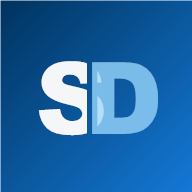
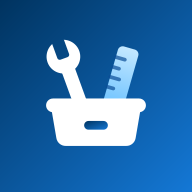
feat(브랜드): 스마트덱 → SMART TOOL BOX(스마트 툴박스) 개명 + 공구함 로고
- 심볼: SD 겹침 글자 → 열린 공구함 위로 렌치(흰색)·자(하늘색)가 솟는 그림 (ToolboxMark)
- 워드마크: SMART(Archivo Light) + TOOL BOX(Archivo Black) + 파란 점, 캡션 Smart Site Tools
- 홈 배너 제목: 건설계획 자동화 TOOL → SMART TOOL BOX
- 파비콘·앱 아이콘·마스커블·apple-touch PNG 재생성, 탭 제목·manifest·로그인 하단 문구 갱신
- 스마트폼 헤더는 prefix="Smart" 로 기존 Smart FORMS 표기 유지
- TC 대여 저장 파일 format(smartdeck.tc-rental-plan)은 기존 파일 호환을 위해 유지

Changed region(s): [[0.1875, 0.1875, 0.8438, 0.7812], [0.0, 0.0, 1.0, 1.0]]

diff --git a/apps/web/src/components/brand/BrandWordmark.tsx b/apps/web/src/components/brand/BrandWordmark.tsx
@@ -1,20 +1,20 @@
 /**
- * 스마트 시리즈 브랜드 로고 — 두 글자 심볼 + 워드마크(`Smart DECK.`) + 캡션.
+ * 브랜드 로고 — 심볼 + 워드마크(`SMART TOOL BOX.`) + 캡션.
  *
  * 표기 규칙
- *  - 정식 표기는 `SmartDeck` / `스마트덱`. **전체 대문자 굵게(SMARTDECK)는 쓰지 않는다.**
- *    `Smart` 는 얇은 회색으로 눌러 두고 `DECK` 만 본체로 세운다.
- *  - 심볼은 겹침형(첫 글자 위에 둘째 글자를 하늘색으로) — 파비콘(16px)만 솔리드형을 따로 쓴다.
- *    (`public/icon.svg` = 겹침 / `public/favicon.svg` = 솔리드)
- *  - 본사 Smart Works 와의 구분: 본사는 두 단어(Smart Works), 이 도구는 한 단어(SmartDeck) + 캡션.
- *  - 같은 틀로 다른 도구(Smart FORMS · SF)도 만든다 — 글자·이름·캡션만 바꾼다.
+ *  - 정식 표기는 `SMART TOOL BOX` / `스마트 툴박스` (2026-10 스마트덱에서 개명). **세 단어 모두 굵게는 쓰지 않는다.**
+ *    앞 단어(`SMART`)는 얇은 회색으로 눌러 두고 `TOOL BOX` 만 본체로 세운다.
+ *  - 심볼은 열린 공구함 — 흰 상자 위로 렌치(흰색)·자(하늘색)가 솟아 가방이 아니라 '공구'로 읽힌다.
+ *    파비콘(16px)만 밝은 타일·자 눈금 생략형을 따로 쓴다. (`public/icon.svg` / `public/favicon.svg`)
+ *  - 캡션은 `Smart Site Tools`, 홈 배너 제목은 `SMART TOOL BOX`.
+ *  - 같은 틀로 안의 도구(Smart FORMS · SF)도 만든다 — 앞 단어·이름·글자·캡션만 바꾼다.
  */
 import { useId } from "react";
 
 /** 두 글자 심볼 — 둥근 타일 위에 두 글자를 겹쳐 깊이를 만든다 */
 export function BrandMark({
   letters = "SD",
-  label = "SmartDeck",
+  label = "SMART TOOL BOX",
   className = "h-9 w-9",
 }: {
   letters?: string;
@@ -69,9 +69,50 @@ export function BrandMark({
   );
 }
 
-/** SD 심볼 — SmartDeck 전용 */
-export function SdMark({ className = "h-9 w-9" }: { className?: string }) {
-  return <BrandMark letters="SD" label="SmartDeck" className={className} />;
+/** 공구함 심볼 — SMART TOOL BOX 전용. `public/icon.svg` 와 같은 도형이다(한쪽을 고치면 같이 고친다) */
+export function ToolboxMark({ className = "h-9 w-9" }: { className?: string }) {
+  // 한 화면에 심볼이 둘 이상 있어도 그라디언트·마스크 id 가 겹치지 않게 한다.
+  const id = `toolbox-mark-${useId().replace(/[^a-zA-Z0-9]/g, "")}`;
+  return (
+    <svg viewBox="0 0 48 48" className={className} role="img" aria-label="SMART TOOL BOX">
+      <defs>
+        <linearGradient id={`${id}-tile`} x1="0" y1="0" x2="1" y2="1">
+          <stop offset="0" stopColor="#00335f" />
+          <stop offset="1" stopColor="#1478d6" />
+        </linearGradient>
+        <linearGradient id={`${id}-sky`} x1="0" y1="0" x2="0" y2="1">
+          <stop offset="0" stopColor="#c4e8ff" />
+          <stop offset="1" stopColor="#6cc2ff" />
+        </linearGradient>
+        {/* 렌치 머리의 벌어진 입 — 렌치를 기울이기 전 좌표로 판다 */}
+        <mask id={`${id}-jaw`} maskUnits="userSpaceOnUse" x="0" y="0" width="48" height="48">
+          <rect x="0" y="0" width="48" height="48" fill="#ffffff" transform="rotate(20 18 22)" />
+          <rect x="16" y="2" width="4" height="7.6" rx="0.8" fill="#000000" />
+        </mask>
+      </defs>
+      <rect width="48" height="48" rx="12" fill={`url(#${id}-tile)`} />
+      {/* 자 — 공구함 오른쪽 뒤에서 비스듬히 솟는다(하늘색) */}
+      <g transform="rotate(16 31 20)">
+        <rect x="27.6" y="6.5" width="6.8" height="20" rx="1.6" fill={`url(#${id}-sky)`} />
+        <path
+          d="M27.6 10.5h3M27.6 13.8h2M27.6 17.1h3M27.6 20.4h2"
+          stroke="#0b4d97"
+          strokeOpacity="0.7"
+          strokeWidth="1.2"
+          strokeLinecap="round"
+        />
+      </g>
+      {/* 렌치 — 왼쪽 뒤에서 반대로 기운다(흰색) */}
+      <g transform="rotate(-20 18 22)" mask={`url(#${id}-jaw)`}>
+        <rect x="15.8" y="10" width="4.4" height="17" rx="2.2" fill="#ffffff" />
+        <circle cx="18" cy="9" r="5.4" fill="#ffffff" />
+      </g>
+      {/* 공구함 — 테두리 띠 + 아래로 좁아지는 몸통, 가운데 잠금 홈 */}
+      <path d="M9.6 26h28.8l-1.7 9.9a3 3 0 0 1-3 2.5H14.3a3 3 0 0 1-3-2.5z" fill="#ffffff" />
+      <rect x="8" y="23.2" width="32" height="4.4" rx="2.2" fill="#ffffff" />
+      <rect x="20.2" y="30.4" width="7.6" height="2.8" rx="1.4" fill={`url(#${id}-tile)`} />
+    </svg>
+  );
 }
 
 interface BrandWordmarkProps {
@@ -79,11 +120,13 @@ interface BrandWordmarkProps {
   showMark?: boolean;
   /** 캡션 노출 여부 — 좁은 헤더에서는 끈다 */
   showCaption?: boolean;
-  /** 심볼 두 글자 (기본 SD) */
+  /** 심볼 두 글자 — 주면 글자 심볼, 비우면 공구함 심볼 */
   letters?: string;
-  /** `Smart` 뒤에 붙는 본체 이름 (기본 DECK) */
+  /** 얇게 눌러 두는 앞 단어 (기본 SMART) */
+  prefix?: string;
+  /** 앞 단어 뒤에 세우는 본체 이름 (기본 TOOL BOX) */
   name?: string;
-  /** 아래 작은 캡션 (기본 Construction Planning) */
+  /** 아래 작은 캡션 (기본 Smart Site Tools) */
   caption?: string;
   className?: string;
 }
@@ -91,24 +134,37 @@ interface BrandWordmarkProps {
 export default function BrandWordmark({
   showMark = true,
   showCaption = true,
-  letters = "SD",
-  name = "DECK",
-  caption = "Construction Planning",
+  letters,
+  prefix = "SMART",
+  name = "TOOL BOX",
+  caption = "Smart Site Tools",
   className,
 }: BrandWordmarkProps) {
+  const markClass = "h-9 w-9 shrink-0 drop-shadow-[0_3px_8px_rgba(0,71,145,0.35)]";
   return (
     <div className={"flex items-center gap-2.5" + (className ? ` ${className}` : "")}>
-      {showMark && (
-        <BrandMark
-          letters={letters}
-          label={`Smart ${name}`}
-          className="h-9 w-9 shrink-0 drop-shadow-[0_3px_8px_rgba(0,71,145,0.35)]"
-        />
-      )}
+      {showMark &&
+        (letters ? (
+          <BrandMark letters={letters} label={`${prefix} ${name}`} className={markClass} />
+        ) : (
+          <ToolboxMark className={markClass} />
+        ))}
       <div className="flex flex-col leading-none">
-        {/* 한 줄 표기 — Smart 는 얇게 눌러 두고 본체 이름만 세운다 */}
+        {/*
+          한 줄 표기 — 앞 단어는 얇게 눌러 두고 본체 이름만 세운다.
+          대문자 앞 단어(SMART)는 본체와 같은 Archivo 가족의 Light 로 맞추고 사이를 조금 더 띄운다.
+        */}
         <span className="flex items-baseline gap-[3px]">
-          <span className="text-[19px] font-medium tracking-[-0.02em] text-slate-400">Smart</span>
+          {prefix === prefix.toUpperCase() ? (
+            <span
+              className="mr-[4px] text-[21px] font-light tracking-[0.02em] text-slate-500"
+              style={{ fontFamily: "'Archivo', 'SUIT Variable', sans-serif" }}
+            >
+              {prefix}
+            </span>
+          ) : (
+            <span className="text-[19px] font-medium tracking-[-0.02em] text-slate-400">{prefix}</span>
+          )}
           <span
             className="text-[22px] tracking-[-0.045em] text-slate-900"
             style={{ fontFamily: "'Archivo Black', 'SUIT Variable', sans-serif" }}

diff --git a/apps/web/src/features/home/HomePage.tsx b/apps/web/src/features/home/HomePage.tsx
@@ -76,7 +76,7 @@ const toolToCard = (tool: ToolDef): HomeCard => ({
   available: tool.status === "available",
   thumbnail: tool.thumbnail,
   logo: tool.logo,
-  meta: "우미 · 스마트덱",
+  meta: "우미 · 스마트 툴박스",
   href: tool.status === "available" ? tool.path : undefined,
 });
 
@@ -104,7 +104,7 @@ export default function HomePage() {
         icon: LayoutGrid,
         available: true,
         thumbnail: app.thumbnail_url,
-        meta: [app.author_name, app.team].filter(Boolean).join(" · ") || "우미 · 스마트덱",
+        meta: [app.author_name, app.team].filter(Boolean).join(" · ") || "우미 · 스마트 툴박스",
         // 설치형도 카드는 상세로 보낸다(설명·화면을 보고 받도록).
         href: `/market/${app.id}`,
         section: toSection(app.section),
@@ -285,7 +285,7 @@ export default function HomePage() {
             <div className="flex flex-wrap items-center gap-2">
               <span className="h-[2px] w-5 rounded-full bg-[#5cc8ff]" />
               <span className="text-[10px] font-bold uppercase tracking-[0.28em] text-[#a9d8ff]">
-                SmartDeck · Tool Directory
+                Woomi · Tool Directory
               </span>
               {/* 요약 칩 — 배너에서 규모를 바로 보여준다 */}
               <span className="ml-1 inline-flex items-center gap-1 rounded-full bg-white/12 px-2.5 py-0.5 text-[11px] font-semibold text-white/90 ring-1 ring-white/25 backdrop-blur">
@@ -300,7 +300,7 @@ export default function HomePage() {
               className="mt-1.5 text-[30px] leading-[1.12] text-white drop-shadow-[0_3px_14px_rgba(0,20,45,0.45)]"
               style={{ fontFamily: "'Black Han Sans', 'SUIT Variable', sans-serif" }}
             >
-              건설계획 자동화 TOOL
+              SMART TOOL BOX
             </h1>
             <p className="mt-1.5 max-w-xl text-[13px] leading-snug text-white/75">
               현장에서 바로 쓰는 시공 자동화 앱·도구를 한곳에서 찾고, 직접 만든 도구를 공유해 보세요.

diff --git a/apps/web/index.html b/apps/web/index.html
@@ -13,7 +13,7 @@
     <meta name="apple-mobile-web-app-capable" content="yes" />
     <meta name="apple-mobile-web-app-status-bar-style" content="black-translucent" />
     <link rel="apple-touch-icon" href="/icon-192.png" />
-    <title>스마트덱 (SmartDeck) · 건설계획 자동화</title>
+    <title>스마트 툴박스 (SMART TOOL BOX)</title>
 
     <!-- 앱 전체 기본 글꼴: SUIT (Smart Works 와 동일, Pretendard 는 폴백) -->
     <link rel="preconnect" href="https://cdn.jsdelivr.net" crossorigin />
@@ -30,7 +30,7 @@
     <link rel="preconnect" href="https://fonts.gstatic.com" crossorigin />
     <link
       rel="stylesheet"
-      href="https://fonts.googleapis.com/css2?family=Black+Han+Sans&family=Archivo+Black&family=JetBrains+Mono:wght@400;500;700&display=swap"
+      href="https://fonts.googleapis.com/css2?family=Black+Han+Sans&family=Archivo:wght@300&family=Archivo+Black&family=JetBrains+Mono:wght@400;500;700&display=swap"
     />
   </head>
   <body>

diff --git a/apps/web/src/features/elevation/components/CadRibbon.tsx b/apps/web/src/features/elevation/components/CadRibbon.tsx
@@ -46,7 +46,7 @@ import {
   ZoomOut,
 } from "lucide-react";
 import { cn } from "@/lib/utils";
-import { SdMark } from "@/components/brand/BrandWordmark";
+import { ToolboxMark } from "@/components/brand/BrandWordmark";
 
 type IconType = ComponentType<{ className?: string }>;
 
@@ -337,7 +337,7 @@ export default function CadRibbon(p: CadRibbonProps) {
           borderBottom: "1px solid rgba(255,255,255,.08)",
         }}
       >
-        <SdMark className="h-7 w-7 shrink-0" />
+        <ToolboxMark className="h-7 w-7 shrink-0" />
         {/* 우미 로고 — 원본이 회색+네이비 2색이라 다크 바에서 묻힌다.
             brightness(0) invert(1) 로 흰색 실루엣으로 반전해 얹는다. */}
         <img

diff --git a/apps/web/src/features/forms/qmpCycle.ts b/apps/web/src/features/forms/qmpCycle.ts
@@ -112,7 +112,7 @@ export function alertDaysOf(code: string, settings?: QmpSiteSettings): number {
 
 /**
  * 이 현장에서 미리 알고 있는 외부 작성 주소(서식 번호 → 주소) — 설정에 없을 때 쓴다.
- * 부산장안(B1): 사용자가 알려 준 스마트우미 공정 화면. 주소의 cd7603f0… 는 스마트덱 현장 번호다.
+ * 부산장안(B1): 사용자가 알려 준 스마트우미 공정 화면. 주소의 cd7603f0… 는 스마트 툴박스(구 스마트덱) 현장 번호다.
  */
 const BUSAN_PROCESS =
   "https://sw.smartwoomi.com/process/frame/auto_cd7603f0-ed9e-4b12-a150-90813ce35d9d_%EA%B3%A8%EC%A1%B0_1774230094168";

diff --git a/apps/web/src/features/tcRental/TcRentalPage.tsx b/apps/web/src/features/tcRental/TcRentalPage.tsx
@@ -886,7 +886,7 @@ export default function TcRentalPage() {
           </HeaderButton>
           {/*
             DB(REV 저장)가 정식 보관 경로다. 이 버튼은 파일로 빼두는 백업·공유용으로만 남긴다
-            — 스마트덱 접근 권한이 없는 사람에게 넘기거나, 저장 전에 손에 쥐고 싶을 때.
+            — 스마트 툴박스 접근 권한이 없는 사람에게 넘기거나, 저장 전에 손에 쥐고 싶을 때.
           */}
           <HeaderButton
             icon={<FileJson className="h-3.5 w-3.5" />}

diff --git a/apps/web/src/features/forms/FormsPage.tsx b/apps/web/src/features/forms/FormsPage.tsx
@@ -2474,8 +2474,8 @@ export default function FormsPage() {
     <SmartBackground>
       <SmartHeader
         brand={
-          <Link href="/" title="스마트덱 도구 목록으로">
-            <BrandWordmark letters="SF" name="FORMS" caption="현장 서류 작성·이행 관리" />
+          <Link href="/" title="스마트 툴박스 도구 목록으로">
+            <BrandWordmark letters="SF" prefix="Smart" name="FORMS" caption="현장 서류 작성·이행 관리" />
           </Link>
         }
         center={

diff --git a/apps/web/src/components/layout/SmartShell.tsx b/apps/web/src/components/layout/SmartShell.tsx
@@ -1,7 +1,7 @@
 /**
  * 스마트 시리즈 화면의 공통 틀 — 배경(블루프린트 그리드 + 오로라), 흰 상단 바, 딥블루 배너.
  *
- * 홈(SmartDeck 도구 목록)과 각 도구(Smart Forms 등)가 같은 첫인상을 갖게 하려고 뽑아 냈다.
+ * 홈(SMART TOOL BOX 도구 목록)과 각 도구(Smart Forms 등)가 같은 첫인상을 갖게 하려고 뽑아 냈다.
  * 화면마다 따로 복사해 두면 한쪽만 고쳐져 금방 서로 달라진다.
  */
 import { useState } from "react";

diff --git a/apps/web/src/features/auth/LoginPage.tsx b/apps/web/src/features/auth/LoginPage.tsx
@@ -162,7 +162,7 @@ export default function LoginPage() {
         </form>
 
         <p className="mt-6 text-center text-[11px] text-slate-400">
-          © 우미건설 · 스마트덱 (SmartDeck)
+          © 우미건설 · 스마트 툴박스 (SMART TOOL BOX)
         </p>
       </div>
     </div>
